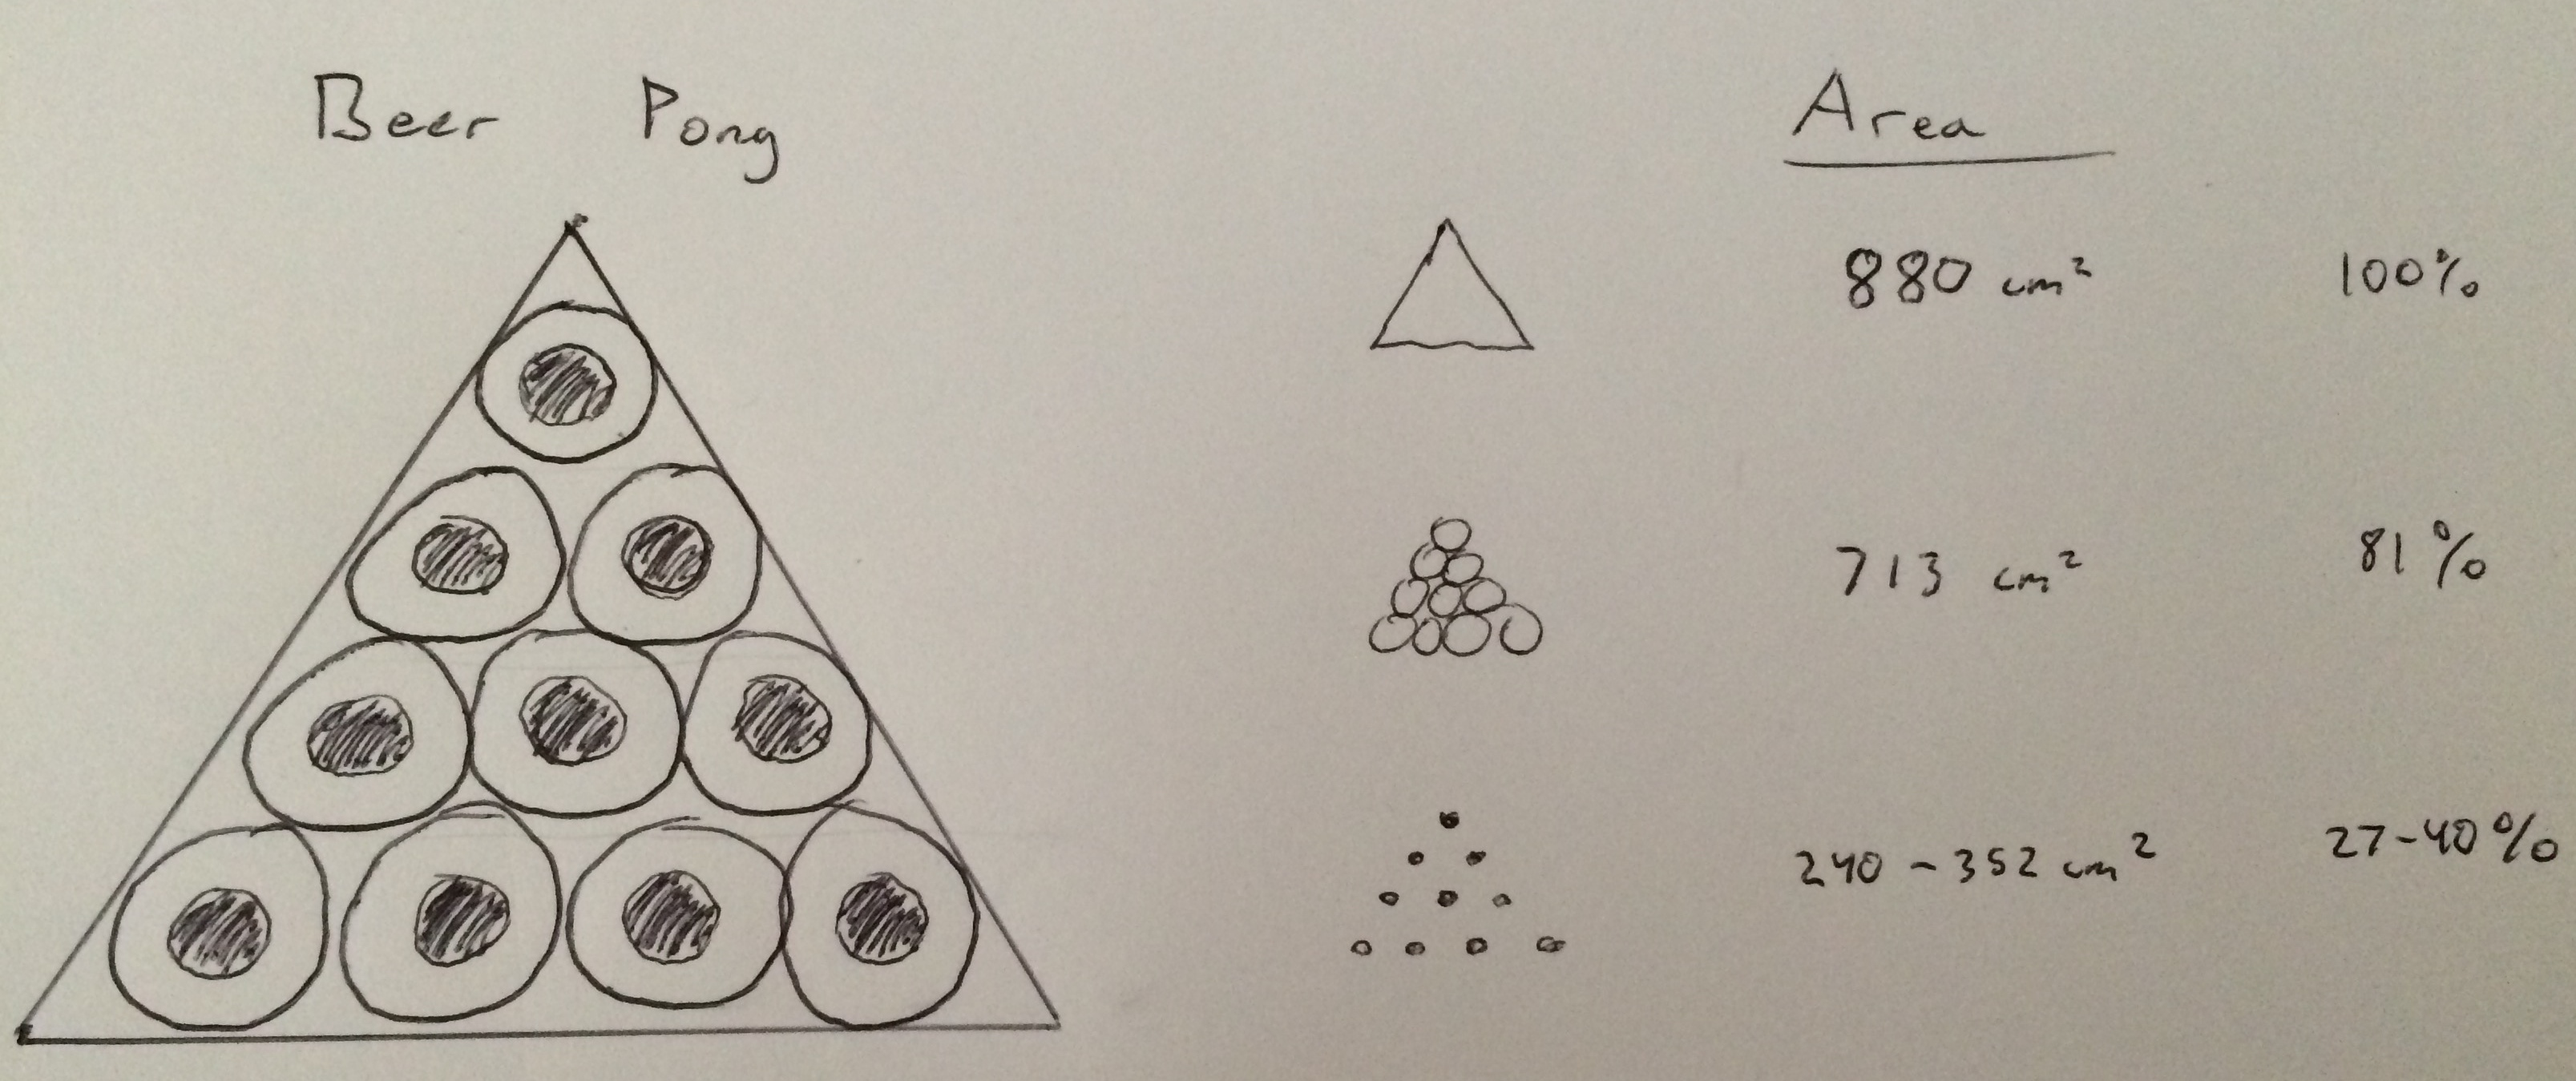
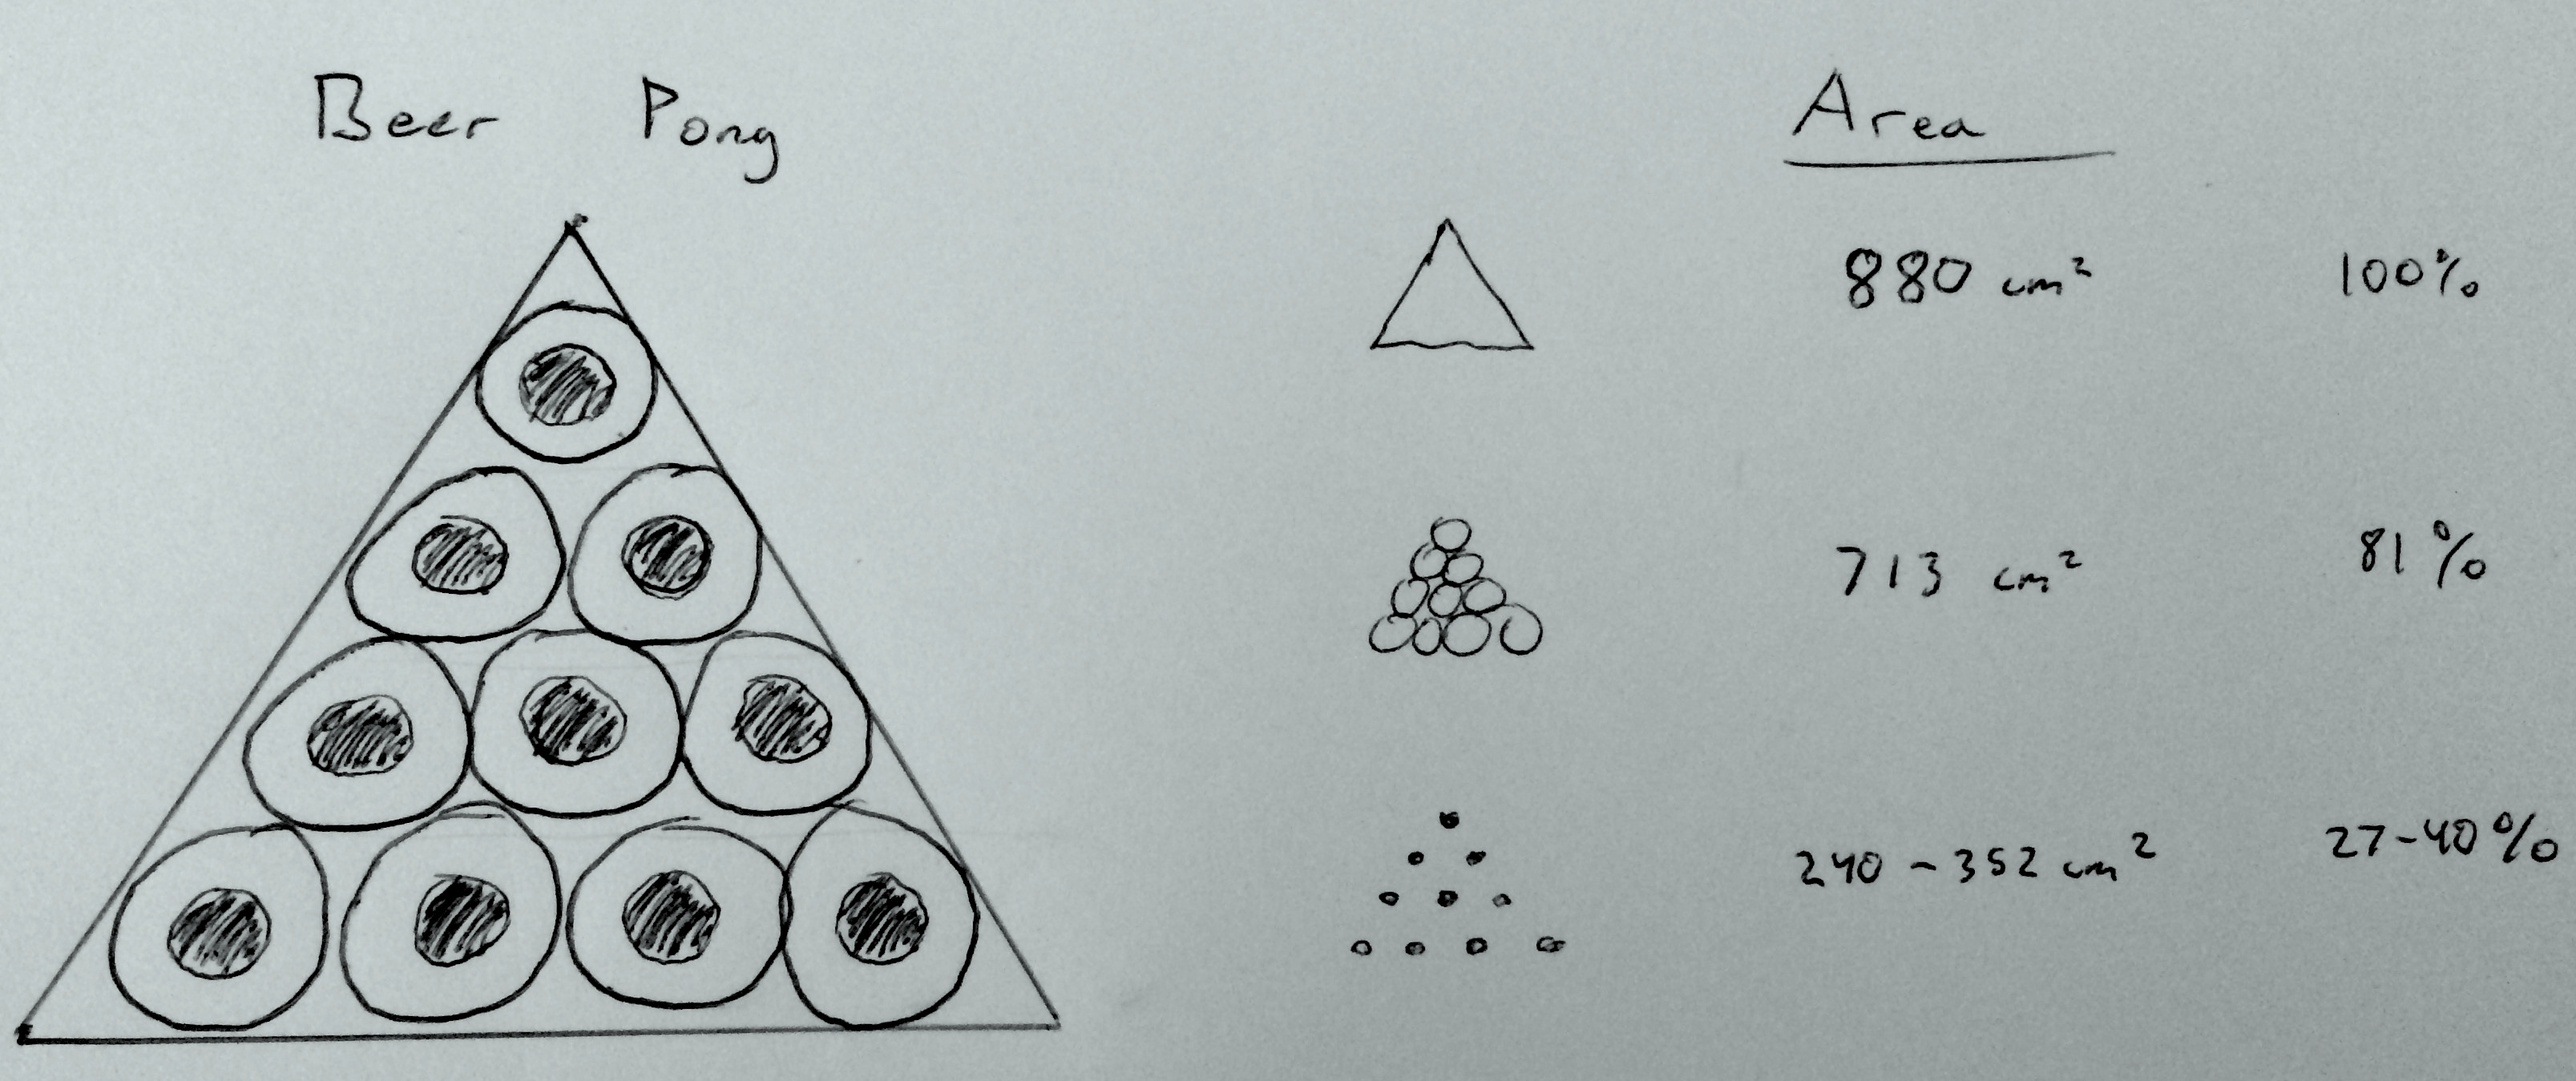
finished post

diff --git a/an-analysis-of-beer-pong.html b/an-analysis-of-beer-pong.html
@@ -71,9 +71,79 @@
     </abbr>
   </footer><!-- /.post-info -->
   <div class="entry-content">
-    <div style="text-align:center"><img src ="/images/single_cup.jpg" width="600" /></div>
+    <p>What's the probability you will make a shot in beer pong, with all cups still on the table? <b>Probably less than 40%!</b></p>
+<div style="text-align:center"><img src ="/images/beer_pong_game.jpg" width="300" /></div>
 
-<div style="text-align:center"><img src ="/images/beer_pong_all.jpg" width="600" /></div>
+<p>This post is a dedication to all those beer pong matches I never won. I had the opportunity to play the game recently, and it sparked some thought after I had read about a famous problem in probability <a href="http://en.wikipedia.org/wiki/Buffon%27s_needle">Buffon's Needle</a> : </p>
+<blockquote>
+<div class="highlight"><pre>      Imagine dropping a needle onto a hardwood floor, made of panels of equal
+      width. What is the probability that the needle will come to rest lying
+      across a crack between two boards?
+</pre></div>
+
+
+</blockquote>
+<!-- ```
+Imagine dropping a needle onto a hardwood floor, made of panels of equal
+width. What is the probability that the needle will come to rest lying
+across a crack between two boards?
+```
+
+> <b>Imagine dropping a needle onto a hardwood floor, made of panels of equal width. What is the probability that the needle will come to rest lying across a crack between two boards?</b> -->
+
+<!-- Even crazier about this, is that you can use this experiment to estimate the value of \pi to a scary degree of precision. -->
+
+<p>In solving the problem, we consider the possible arrangements of the needle and the floorboards. We can do the same with beer pong! </p>
+<p>To get a rough estimate of likelihood of sinking a beer pong shot just based on the areas covered by the solo cups and ping pong ball. </p>
+<div style="text-align:center">
+    <img src ="/images/single_cup.jpg" width="400" />
+<!--    <div style='width: 130px; text-align: center;'>I just love to visit this most beautiful place in all the world.</div> -->
+    <figcaption> Shaded area represents where center of ping pong must land for ball land into the cup without touching the sides of the cup</figcaption>
+</div>
+
+<p>Surprisingly, despite the fact that roughly 80% of the triangle outlining the cups is covered by the openings of the cups, less than 40% of that area is good for sinking the ball.</p>
+<div style="text-align:center">
+    <img src ="/images/beer_pong_all.jpg" width="600" />
+    <figcaption> figure not drawn to scale, or good</figcaption>
+
+</div>
+
+<p>The main assumption here is that your shot is equally likely to land anywhere within the triangle of solo cups (a dubious assumption when playing with the well-practiced frat guy).</p>
+<p>And here are the formulas for the various values above... </p>
+<p>The area covered by the solo cups : 
+<div style="text-align:center"><img src ="/images/n_cup_area.gif"/></div></p>
+<p>The area of the surrounding triangle : 
+<div style="text-align:center"><img src ="/images/tri_area.gif"/></div></p>
+<p>which is derived from the side length : 
+<div style="text-align:center"><img src ="/images/tri_side_length.gif"/></div></p>
+<p>and the formula for the area of an equilateral triagle :
+<div style="text-align:center"><img src ="/images/tri_area_form.gif"/></div></p>
+<p>The sum of the shaded areas depends on what we allow to be plausible for the ball to enter the cup. Can the ball nick the side and go in still? By how much? I take a range between just nicking the side and striking the edge of the cup at a 45 degree angle. 
+<div style="text-align:center"><img src ="/images/n.gif"/></div></p>
+<div style="text-align:center"><img src ="/images/r_cup.gif"/></div>
+
+<div style="text-align:center"><img src ="/images/r_shaded.gif"/></div>
+
+<p>Using these values will yeild the above table.</p>
+<!-- Using the measurements
+
+R := \text{radius of solo cup} 
+\newline
+r := \text{radius of ping pong ball}
+\newline
+\text{Area of solo cups} = \pi R^2 \frac{n(n+1)}{2}
+\newline
+\text{Area of make shot} = \pi r^2 \frac{n(n+1)}{2}
+\newline
+\text{Side length of triangle} = 2(R+R\sqrt{3})+2R(n-2)
+\newline
+\text{Area of triangle} = \frac{\sqrt{3}}{4}({\text{side length}})^2
+\newline
+= \frac{\sqrt{3}}{4}\left[2(R+R\sqrt{3})+2R(n-2)\right]^2
+\newline
+= 2\sqrt{3}\left[2R(n-1+\sqrt{3})\right]^2
+
+2 \text{ cm}\leq r_{solo cup} \leq 3.35 \text{ cm} -->
   </div><!-- /.entry-content -->
 </section>
             <hr/>
